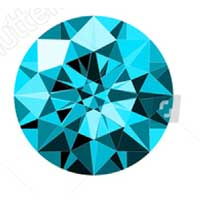
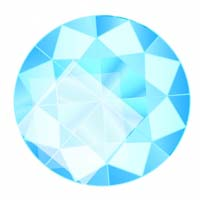
Updated gem images and README

diff --git a/assets/game.js b/assets/game.js
@@ -3,7 +3,7 @@ var gameNumber = "";
 var wins = 0;
 var loss = 0;
 var playerScore = 0;
-var images = ["assets/images/blueGem.jpg", "assets/images/pinkGem.jpg", "assets/images/greyGem.jpg", "assets/images/purpleGem.jpg"]
+var images = ["assets/images/blueGem.jpg", "assets/images/redGem.jpg", "assets/images/greenGem.jpg", "assets/images/purpleGem.jpg"]
 
 //functions
 function randomNumber (){

diff --git a/README.md b/README.md
@@ -1,1 +1,15 @@
-# unit-4-game
+# Gem Game
+
+This project is a game. Each gem is randomly assigned a value. Player must try to match the number given in the game by clicking on the gems. If player's number goes over the given number the player loses.
+
+# Link to Project
+https://amerik22.github.io/unit-4-game/ 
+
+
+# Tech Used
+HTML
+CSS
+Bootstrap
+Javascript
+jOuery
+
